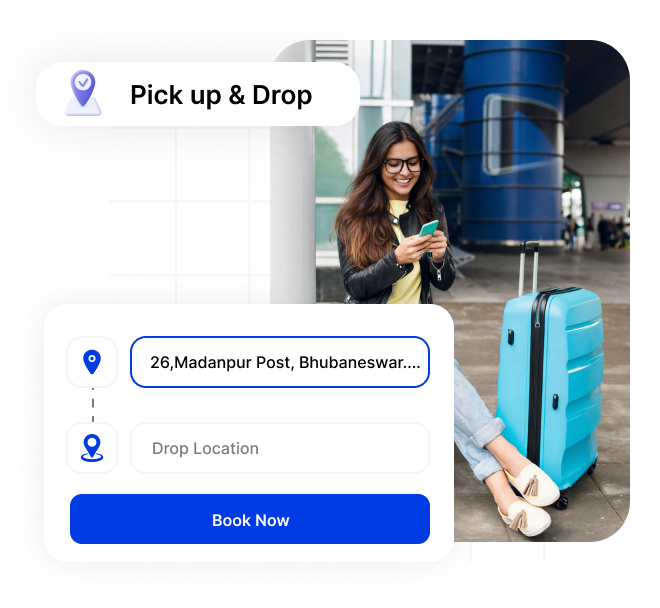
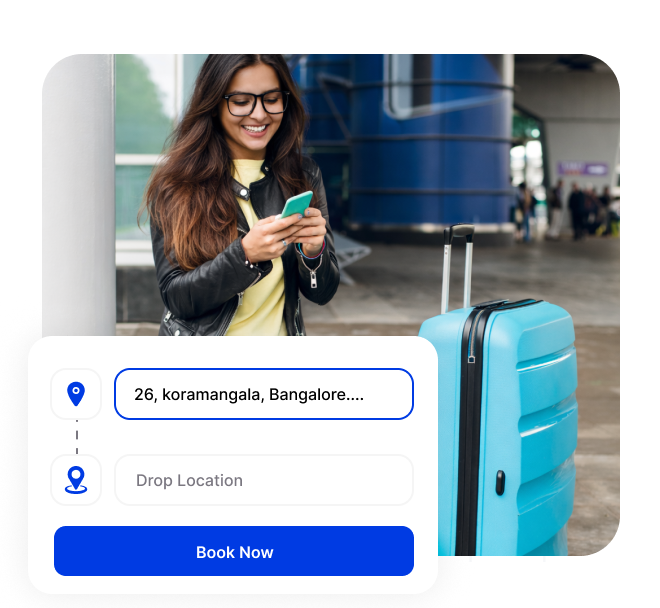
why choose

diff --git a/components/Slider.jsx b/components/Slider.jsx
@@ -16,10 +16,16 @@ import Corporate from "@/asset/why-choose/corporate.png";
 import Support from "@/asset/why-choose/support.png";
 
 const data = [
+   
   {
     title: "Costs Less Than Carrying It Yourself",
     desc: "Excess baggage fees add up fast, so you can ship 20 kg or more for far less and pay once, without surprises.",
     img: Safe,
+  },
+  {
+    title: "Dedicated Support throughout",
+    desc: "No chatbots. No waiting three days for an email reply. Get a dedicated contact who knows your shipment.",
+    img: Support,
   },
   {
     title: "No More Weight Limits",
@@ -31,6 +37,7 @@ const data = [
     desc: "Skip bigger cabs, porters, and last-minute add-ons, with luggage delivered door to door.",
     img: OnTime,
   },
+  
   {
     title: "Less Carrying Less Stress",
     desc: "No dragging bags across stairs or platforms, because we pick up and deliver safely.",
@@ -46,11 +53,7 @@ const data = [
     desc: "Your luggage is handled carefully, tracked end to end, and delivered without worry.",
     img: Tier,
   },
-   {
-    title: "Dedicated SPOC Support",
-    desc: "Your luggage is handled carefully, tracked end to end, and delivered without worry.",
-    img: Support,
-  },
+  
 ];
 
 export default function Slider() {
